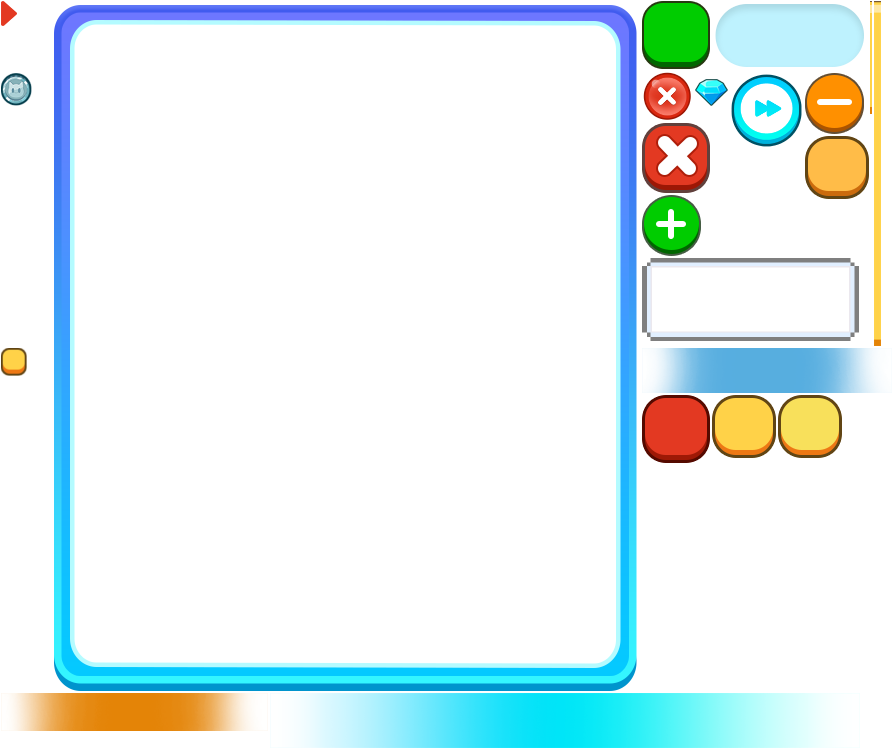
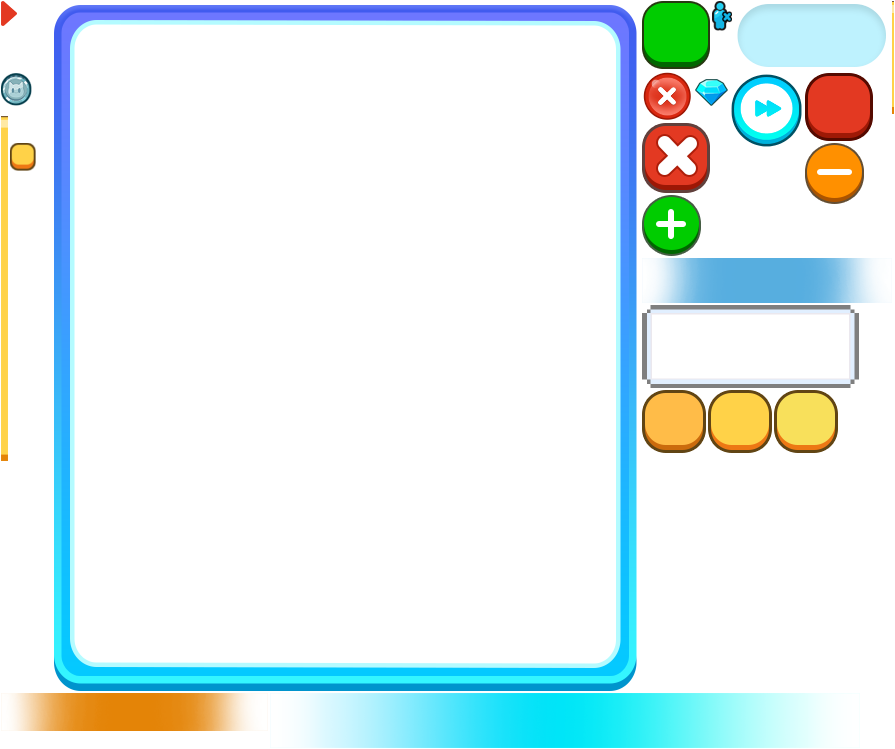
PH-366

Changed region(s): [[0.6652, 0.0, 1.0, 0.9212], [0.0, 0.1535, 0.0605, 0.6142]]

diff --git a/src/ui/PicaRoomList/PicaRoomListPanel.ts b/src/ui/PicaRoomList/PicaRoomListPanel.ts
@@ -9,6 +9,7 @@ import { ScrollerConfig } from "../../../lib/rexui/lib/ui/interface/scroller/Scr
 import { Logger } from "../../utils/log";
 import { Button } from "../../../lib/rexui/lib/ui/button/Button";
 import { TabButton } from "../../../lib/rexui/lib/ui/tab/TabButton";
+import { UIAtlasKey, UIAtlasName } from "../ui.atals.name";
 
 export class PicaRoomListPanel extends BasePanel {
   private readonly key: string = "pica_roomlist";
@@ -73,6 +74,7 @@ export class PicaRoomListPanel extends BasePanel {
   }
 
   protected preload() {
+    this.addAtlas(UIAtlasKey.commonKey, UIAtlasName.commonUrl + ".png", UIAtlasName.commonUrl + ".json");
     this.addAtlas(this.key, "pica_roomlist/pica_roomlist.png", "pica_roomlist/pica_roomlist.json");
     super.preload();
   }
@@ -748,7 +750,7 @@ class RoomItem extends Phaser.GameObjects.Container {
       if (room.playerCount) this.mCounter.setText(room.playerCount.toString());
     }
     this.mCounterIcon.x = this.mCounter.x - this.mCounter.width / 2 - this.mCounterIcon.width / 2 - 4 * this.mDpr;
-    this.crateLabel(op_def.EditModeRoomPrivacy.EDIT_MODE_ROOM_LOCKED);
+    // this.crateLabel(op_def.EditModeRoomPrivacy.EDIT_MODE_ROOM_LOCKED);
     this.mRoom = room;
   }
 
@@ -780,8 +782,8 @@ class RoomItem extends Phaser.GameObjects.Container {
     this.mNickName.y = -(this.mNickName.height) / 2;
 
     this.mCounterIcon = this.scene.make.image({
-      key,
-      frame: "counter_icon.png"
+      key: UIAtlasKey.commonKey,
+      frame: "home_persons"
     }, false);
 
     this.mCounter = this.scene.make.text({
